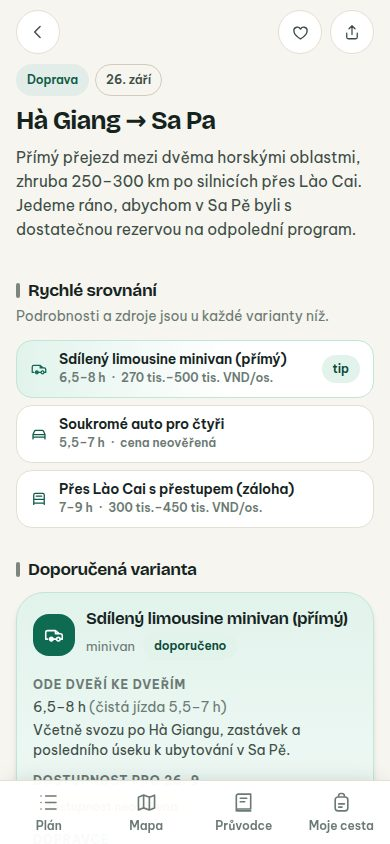
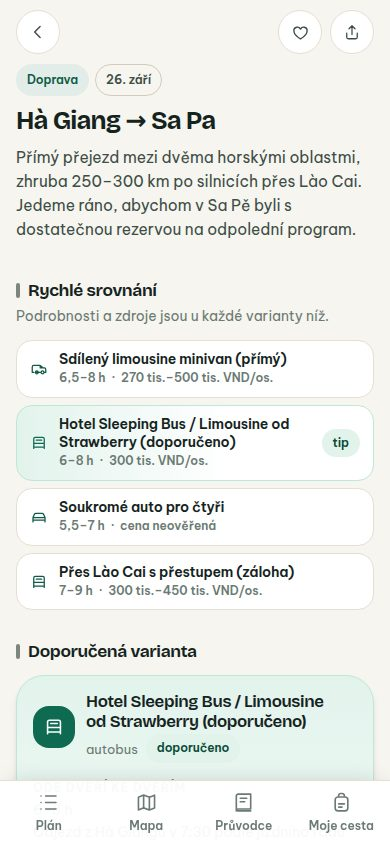
feat(data): primy bus Strawberry Ha Giang -> Sa Pa jako doporucena varianta
Zadavatel poslal screenshot jizdniho radu ze strawberryhagiangloop.com:
tri urovne na trase Ha Giang <-> Sa Pa (Royal Cabin Sleeping Bus, Hotel
Sleeping Bus, Limousine), Hotel Sleeping Bus a Limousine shodne za
300 000 VND/os. To je levnejsi nez sdileny limousine od jinych prodejcu
(270-500 tis.) a resi to drivejsi neoverenou polozku (cena soukromeho
auta na teto trase se nikde nedala dohledat).

- novy zdroj src-strawberry-hagiang-sapa-schedule (kind: operator),
  s poznamkou ze screenshot byl castecne zakryty ikonami chatu
- nova varianta opt-hg-sapa-strawberry-bus jako doporucena (nahrazuje
  drivejsi sdileny limousine v teto roli)
- rozpocet bd-hagiang-sapa aktualizovan na 300 000 VND/os.
- oq-private-car-price prejmenovana na oq-strawberry-bus-schedule:
  citelny je jen ranni odjezd 7:30, neni potvrzeny pripadny vecerni
  spoj, ktery by mohl nahradit nocleh v Ha Giangu 25./26. 9.

68 unit testu, build a vizualni kontrola bez nalezu.

Claude-Session: https://claude.ai/code/session_01Cymdo9tzj1p7XfpkcYGvAf

Changed region(s): [[0.0308, 0.4005, 0.9538, 0.9242], [0.8308, 0.4005, 0.9231, 0.4621]]

diff --git a/src/data/transport.ts b/src/data/transport.ts
@@ -425,6 +425,51 @@ export const transportLegs: TransportLeg[] = [
           'Sdílený spoj sbírá další cestující, takže reálný čas bývá delší než inzerovaný.',
         ],
         sourceIds: ['src-bookaway-hg-sapa', 'src-redbus-hg-sapa', 'src-a21-hg-sapa', 'src-gyg-hg-sapa-transfer'],
+      },
+      {
+        id: 'opt-hg-sapa-strawberry-bus',
+        mode: 'bus',
+        label: 'Hotel Sleeping Bus / Limousine od Strawberry (doporučeno)',
+        operator: 'Strawberry Ha Giang Loop — stejná síť, která vozí loop i transfer Hanoj → Hà Giang.',
+        doorToDoor: {
+          minHours: 6,
+          maxHours: 8,
+          note: 'Odjezd z Hà Giangu v 7:30 podle jízdního řádu na webu. Přesný příjezd do Sa Py nepotvrzený.',
+          confidence: 'published',
+        },
+        price: [
+          {
+            currency: 'VND',
+            amount: 300_000,
+            unit: 'per-person',
+            persons: 1,
+            note: 'Hotel Sleeping Bus i Limousine shodně 300 000 VND na osobu — levnější než sdílený limousine přes 12Go/Bookaway (270–500 tis.). Royal Cabin Sleeping Bus vychází dráž, přesnou částku nemáme celou přečtenou (screenshot zakrytý ikonami chatu).',
+            confidence: 'published',
+            sourceIds: ['src-strawberry-hagiang-sapa-schedule'],
+            checkedOn: '2026-09-14',
+          },
+        ],
+        capacityNote: 'Nepotvrzeno pro čtyři s velkými batohy po loopu — dotázat se při rezervaci stejně jako u limousine.',
+        pickup: { description: 'Podle webu z Hà Giangu, pravděpodobně od základny Strawberry — potvrdit přesné místo.' },
+        dropoff: { description: 'Sa Pa, přesné místo výstupu nepotvrzené.' },
+        schedule: {
+          summary: 'Na webu čitelný odjezd v 7:30 z Hà Giangu. Není jasné, jestli existuje i pozdější večerní spoj téhož dne — tu část tabulky zakrývaly ikony chatu ve screenshotu.',
+          confidence: 'published',
+          sourceIds: ['src-strawberry-hagiang-sapa-schedule'],
+        },
+        availability: 'unknown',
+        bookingLeadTime: 'Řešit spolu s rezervací loopu u Strawberry.',
+        pros: [
+          'Levnější než samostatně kupovaný limousine na téže trase.',
+          'Stejná síť jako loop — jedna komunikace, jeden operátor.',
+          'Pokud by existoval i večerní spoj, mohl by nahradit nocleh v Hà Giangu 25./26. 9. Nutno potvrdit.',
+        ],
+        cons: [
+          'Čitelný odjezd 7:30 vypadá jako ranní spoj, ne noční — pak nenahrazuje nocleh, jen přejezd.',
+          'Kapacita na 4 velké batohy nepotvrzená.',
+          'Přesný bod nástupu a výstupu chybí.',
+        ],
+        sourceIds: ['src-strawberry-hagiang-sapa-schedule'],
         recommended: true,
       },
       {

diff --git a/src/data/openQuestions.ts b/src/data/openQuestions.ts
@@ -16,10 +16,10 @@ export const openQuestions: OpenQuestion[] = [
     nextStep: 'Doptat se na WhatsAppu: výše zálohy, způsob platby, storno při dešti nebo sesuvu, a jestli je první noc v ceně. Teprve pak platit.',
   },
   {
-    id: 'oq-private-car-price',
-    title: 'Cena soukromého auta Hà Giang → Sa Pa',
-    detail: 'U žádného poskytovatele se nám nepodařilo dohledat cenu za vůz na téhle konkrétní trase.',
-    nextStep: 'Vyžádat cenu mailem u Viet Transfers a A21 Tours pro sedmimístné MPV, 26. 9., 4 osoby + 4 velké batohy.',
+    id: 'oq-strawberry-bus-schedule',
+    title: 'Má bus Hà Giang → Sa Pa i večerní spoj?',
+    detail: 'Strawberry má na webu Hà Giang → Sa Pa za 300 000 VND/os. (Hotel Sleeping Bus / Limousine), ale čitelný je jen ranní odjezd 7:30. Pokud existuje i pozdní večerní spoj 25. 9., mohl by nahradit nocleh v Hà Giangu tu noc. Cena soukromého auta na téhle trase se u žádného poskytovatele nepodařilo dohledat.',
+    nextStep: 'Zeptat se přímo Strawberry: existuje večerní/noční odjezd z Hà Giangu do Sa Py 25. 9.? Pokud ne, potvrdit aspoň přesný bod nástupu/výstupu a kapacitu na 4 batohy pro ranní spoj.',
     relatedDayDates: ['2026-09-26'],
   },
   {

diff --git a/src/data/sources.ts b/src/data/sources.ts
@@ -517,6 +517,21 @@ export const sources: Source[] = [
   },
   // --- co nám řekl přímo poskytovatel -------------------------------------
   {
+    id: 'src-strawberry-hagiang-sapa-schedule',
+    title: 'strawberryhagiangloop.com — jízdní řád a ceny Hà Giang ⇄ Sa Pa',
+    url: 'https://strawberryhagiangloop.com/',
+    publisher: 'Strawberry Ha Giang Loop',
+    kind: 'operator',
+    checkedOn: '2026-09-14',
+    supports: [
+      'tři úrovně na trase Hà Giang ⇄ Sa Pa: Royal Cabin Sleeping Bus, Hotel Sleeping Bus, Limousine',
+      'Hotel Sleeping Bus a Limousine za 300 000 VND na osobu',
+      'ranní odjezd z Hà Giangu do Sa Py v 7:30',
+    ],
+    note: 'Screenshot tabulky z webu, částečně zakrytý ikonami chatu — přesný čas případného večerního spoje a cena Royal Cabin nejsou čitelné celé. Nutno ověřit přímo.',
+  },
+  // --- co nám řekl přímo poskytovatel -------------------------------------
+  {
     id: 'src-strawberry-whatsapp-140926',
     title: 'Strawberry Ha Giang Loop — odpověď na WhatsApp (Daiquiri, tým Strawberry)',
     publisher: 'Strawberry Ha Giang Loop',

diff --git a/src/data/budget.ts b/src/data/budget.ts
@@ -158,10 +158,10 @@ export const budgetLines: BudgetLine[] = [
     id: 'bd-hagiang-sapa',
     category: 'transport',
     label: 'Hà Giang → Sa Pa',
-    note: 'Sdílený limousine. Soukromé auto by bylo dražší, cenu nemáme.',
-    min: 270_000, max: 500_000, currency: 'VND', basis: 'per-person',
+    note: 'Strawberry nabízí Hotel Sleeping Bus / Limousine za 300 000 VND na osobu — levnější než sdílený limousine od jiných prodejců (270–500 tis.). Odjezd 7:30 podle webu; nepotvrzeno, jestli je i večerní spoj.',
+    min: 300_000, max: 300_000, currency: 'VND', basis: 'per-person',
     confidence: 'published',
-    sourceIds: ['src-bookaway-hg-sapa', 'src-redbus-hg-sapa'],
+    sourceIds: ['src-strawberry-hagiang-sapa-schedule'],
     dayDates: ['2026-09-26'],
   },
   {
